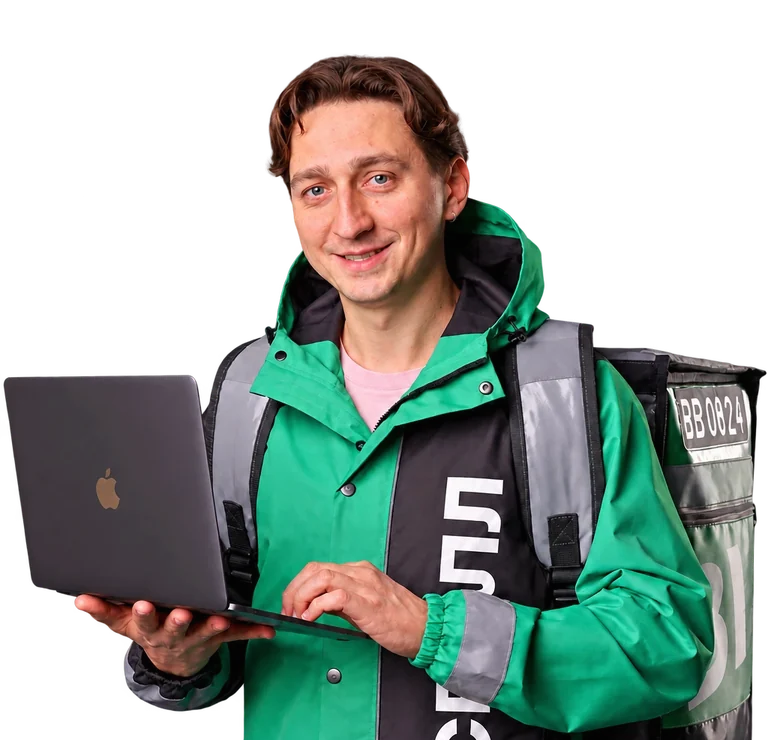
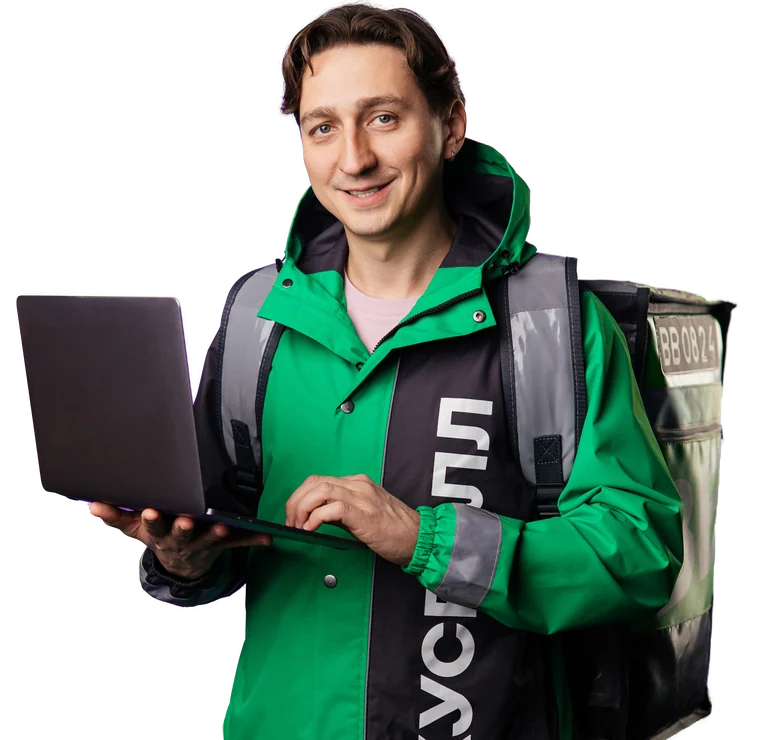
Истории: новые фото из рабочей папки для обеих карточек

diff --git a/src/Prototype.jsx b/src/Prototype.jsx
@@ -344,14 +344,14 @@ function TechnologyStories() {
           <h2 id="people-care-title">Технологии с заботой</h2>
           <p>Ходим в <a href="https://habr.com/p/882212/" target="_blank" rel="noopener noreferrer">гембу<span className="visually-hidden"> — статья на Habr, откроется в новой вкладке</span></a>, пробуем себя в роли курьеров и сотрудников магазинов, чтобы увидеть процессы глазами пользователей. Так мы создали первый в России <a href="https://habr.com/p/882212/" target="_blank" rel="noopener noreferrer">offline-first PWA<span className="visually-hidden"> — статья на Habr, откроется в новой вкладке</span></a> для курьерской доставки.</p>
           </div>
-          <div className="people-story-portrait" aria-hidden="true"><img src="/assets/stories/care-person.webp?v=20261029b" alt="" width="768" height="740" loading="lazy" decoding="async" /></div>
+          <div className="people-story-portrait" aria-hidden="true"><img src="/assets/stories/care-person.webp?v=20261102" alt="" width="768" height="740" loading="lazy" decoding="async" /></div>
         </article>
         <article className="people-story" aria-labelledby="people-purpose-title">
           <div className="people-story-copy">
           <h2 id="people-purpose-title">Технологии с умом</h2>
           <p>Не гонимся за инновациями ради новизны, а выбираем то, что приносит пользу. Например, запустили <a href="https://habr.com/p/981866/" target="_blank" rel="noopener noreferrer">MCP-сервер<span className="visually-hidden"> — статья на Habr, откроется в новой вкладке</span></a>, который позволяет AI-агенту находить товары, изучать состав и КБЖУ и собирать корзину без лишних действий.</p>
           </div>
-          <div className="people-story-portrait" aria-hidden="true"><img src="/assets/stories/mind-person.webp?v=20261029" alt="" width="768" height="740" loading="lazy" decoding="async" /></div>
+          <div className="people-story-portrait" aria-hidden="true"><img src="/assets/stories/mind-person.webp?v=20261102" alt="" width="768" height="740" loading="lazy" decoding="async" /></div>
         </article>
       </div>
     </section>

diff --git a/AGENTS.md b/AGENTS.md
@@ -6,6 +6,7 @@ Before making substantial visual changes, use the Product Design plugin's `get-c
 
 ## Durable Techvill direction
 
+- 2 November story portraits (overrides the 28 October cabbage/checkered-shirt portraits): care card uses `Фото2_без_фона.png` (courier with a laptop), mind card uses `Фото1_без_фона.png` (colleague with oranges), cropped to 768×740 without retouching. When a portrait file changes, bump its `?v=` in the `src` because Pages caches images for 10 minutes.
 - 29 October /pentest typography pass: list items start with a capital letter; standalone paragraphs and card lines drop the final period (abbreviations keep theirs: «и т. д.», «в т. ч.» with a non-breaking space); «х2» became «В 2 раза больше обнаруженных уязвимостей…». Always write ё where it belongs. Prose and cards get `text-wrap: pretty` and a 68ch measure, the hero statement is balanced. The duplicated «Ограниченное число обнаруживаемых уязвимостей» under the white box is source copy, kept pending editorial confirmation. Local only, not published.
 - 29 October vacancy page (overrides «Each vacancy page shows the role, team, work format, tasks and requirements, then the application form» layout and the 820px single column): compact two-column layout at 1120px — heading and description on the left, a sticky white summary card on the right (salary block «Зарплата / от 100 000 ₽» only when `salaryLabel(job)` exists, then Направление, Формат, График, and «Откликнуться» to #application), sections below the heading; one column under 900px with the card after the heading. Compact type: h1 32–48px, description 18px, section h2 20–24px, body 16px/1.55, 68ch measure. Target: details on one desktop screen, form on the second (long Кибершеф content may exceed). The talent form asks Имя, Фамилия (required), Телефон, Email, then Вакансия (locked on job pages, select in the universal dialog) full width. Follow-up: the form card lives in the copy column (≈750px, grid area «form») beside the sticky summary, not full 1120px. Per the product request, «Резюме *» is a segmented Файл / Ссылка switch (native radios): file mode shows the PDF/DOC/DOCX ≤10 МБ input, link mode a required https:// URL field (hh.ru, LinkedIn, Google Диск, портфолио); only the chosen control is mounted and validated, in both the vacancy page and the universal dialog. Local only, not published.
 - 29 October vacancy rows: the subtitle under each title is no longer the description; it is `vacancySubtitle(job)` = approved salary string («от 100 000 ₽») · schedule · work format (Удалённо / Гибрид), each optional and skipped when missing. Only ML-инженер (id 2) carries a demonstration salary «от 100 000 ₽», added at the user's request as a format example (not an approved offer); other jobs show only the format. Never invent further salaries. The right meta column keeps only the team/direction (format moved into the subtitle). Descriptions stay in the data for vacancy pages. Local only, not published.

diff --git a/public/assets/stories/README.md b/public/assets/stories/README.md
@@ -1,8 +1,8 @@
 # Supplied technology-story portraits
 
-29 October replacement: both portraits come from the user's new transparent 1024 × 1536 WebP photos, cropped from the top of the subject (no retouching) to the existing 768 × 740 frame and re-encoded as WebP with the alpha channel kept.
+2 November replacement: both portraits come from the user's transparent `Фото1_без_фона.png` and `Фото2_без_фона.png` (working folder «Техвилл»), cropped from the top of the subject at full width, without retouching, to the existing 768 × 740 frame and re-encoded as WebP with the alpha channel kept.
 
-- `care-person.webp`: courier in the ВкусВилл jacket with a plain laptop and delivery bag (second 29 October photo, crop y 28–1015), paired with the care/gemba story.
-- `mind-person.webp`: colleague in a white sweatshirt holding oranges (crop y 79–1066), paired with the mind/AI story.
+- `care-person.webp`: `Фото2_без_фона.png`, courier in the ВкусВилл jacket with a laptop and delivery bag (crop y 1468–6613), paired with the care/gemba story.
+- `mind-person.webp`: `Фото1_без_фона.png`, colleague in a white sweatshirt holding oranges (crop y 1634–6810), paired with the mind/AI story.
 
 Visual reference: Figma file `uJ2n44BeGivetJbZu4rtVo`, node `7400:2`, and https://vkusvill.ru/job/ (team-choice cards). The requested horizontal story layout and existing lilac palette take precedence over the reference's vertical team cards.
